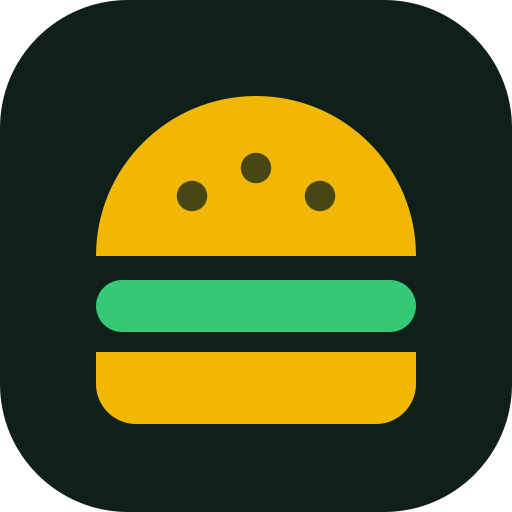
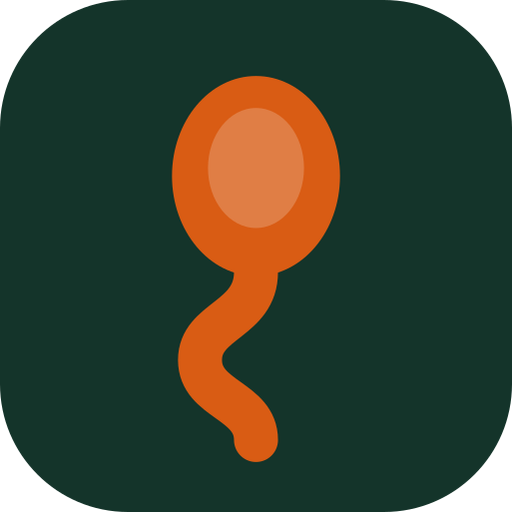
Marque Savora, icônes régénérées, et deux défauts d'affichage corrigés
## Une marque qui ne parle pas du menu

Le pictogramme était un burger doré. Il disait « ce logiciel sert des burgers » — or il servira
aussi des wraps, du riz gras et du bissap, et il se vendra à d'autres restaurants que le premier.
La marque est désormais une cuillère dont le manche trace le « S » : elle dit la table sans rien
dire du menu. Dessinée en aplats, elle reste lisible à seize pixels dans une barre latérale.

Toutes les icônes découlent maintenant d'un seul dessin, régénérées par `npm run icons` :
favicon, icônes PWA, icône masquable, et les cinq densités du lanceur Android. Sans ce dernier
passage, l'ancienne identité aurait survécu sur l'écran d'accueil des téléphones déjà équipés, et
personne n'aurait pensé à la chercher là.

## Vérification écran par écran

Vingt écrans parcourus au navigateur après la réécriture complète des feuilles de style —
onze côté logiciel, neuf côté application. Deux défauts trouvés, tous deux côté client :

  — **Débordement horizontal.** Les rangées défilantes portaient une marge négative destinée à
    « sortir » d'un conteneur parent. Mais ces rangées ne sont pas encadrées : elles sont posées
    directement dans la page. Elles dépassaient donc de seize pixels, et c'est toute la page qui
    défilait latéralement. Le défaut se voit à peine et se ressent tout de suite : l'écran glisse
    sous le doigt à chaque geste vertical.
  — **Vignettes trop lourdes.** Les visuels de repli posaient un sujet clair sur un fond très
[…]

diff --git a/apps/api/src/modules/uploads/illustrations.ts b/apps/api/src/modules/uploads/illustrations.ts
@@ -72,9 +72,19 @@ function svg(name: string, glyph: Glyph): string {
   // tons qui donnent faim.
   const hue = glyph === 'drink' ? 148 + Math.round(rand() * 64) : 6 + Math.round(rand() * 40);
 
-  const deep = `hsl(${hue} 58% 14%)`;
-  const mid = `hsl(${hue} 64% 30%)`;
-  const warm = `hsl(${(hue + 14) % 360} 82% 56%)`;
+  /*
+   * Des tons clairs, pas des carrés sombres.
+   *
+   * La première version posait un sujet crème sur un fond très sombre. Sur l'ancienne interface en
+   * vert nuit, cela passait ; sur le papier clair d'aujourd'hui, chaque vignette devient un bloc
+   * lourd qui écrase la carte qui la porte. On inverse donc : un lavis chaud et lumineux, et le
+   * sujet dessiné dans une teinte profonde. La vignette respire avec la page au lieu d'y faire un
+   * trou.
+   */
+  const pale = `hsl(${hue} 62% 88%)`;
+  const mid = `hsl(${(hue + 6) % 360} 70% 74%)`;
+  const warm = `hsl(${(hue + 14) % 360} 88% 82%)`;
+  const encre = `hsl(${hue} 58% 32%)`;
 
   // Ce qui distingue deux plats voisins : où tombe la lumière, comment la silhouette est posée.
   const lightX = (0.3 + rand() * 0.42).toFixed(3);
@@ -100,31 +110,31 @@ function svg(name: string, glyph: Glyph): string {
     const ax = (26 + rand() * 68).toFixed(1);
     const ay = (14 + rand() * 58).toFixed(1);
     const ar = (0.8 + rand() * 1.5).toFixed(2);
-    return `<circle cx="${ax}" cy="${ay}" r="${ar}" fill="#FFF3D6" fill-opacity="${0.1 + i * 0.05}"/>`;
+    return `<circle cx="${ax}" cy="${ay}" r="${ar}" fill="#FFFFFF" fill-opacity="${0.28 + i * 0.08}"/>`;
   }).join('');
 
   return `<svg xmlns="http://www.w3.org/2000/svg" width="${WIDTH}" height="${HEIGHT}" viewBox="0 0 120 90">
   <defs>
     <linearGradient id="fond" x1="0.1" y1="0" x2="0.9" y2="1">
-      <stop offset="0%" stop-color="${mid}"/>
-      <stop offset="100%" stop-color="${deep}"/>
+      <stop offset="0%" stop-color="${warm}"/>
+      <stop offset="100%" stop-color="${mid}"/>
     </linearGradient>
     <radialGradient id="lumiere" cx="${lightX}" cy="${lightY}" r="0.72">
-      <stop offset="0%" stop-color="${warm}" stop-opacity="0.62"/>
-      <stop offset="55%" stop-color="${warm}" stop-opacity="0.12"/>
-      <stop offset="100%" stop-color="${warm}" stop-opacity="0"/>
+      <stop offset="0%" stop-color="${pale}" stop-opacity="0.9"/>
+      <stop offset="60%" stop-color="${pale}" stop-opacity="0.25"/>
+      <stop offset="100%" stop-color="${pale}" stop-opacity="0"/>
     </radialGradient>
     <radialGradient id="ombre" cx="0.5" cy="0.5" r="0.5">
-      <stop offset="0%" stop-color="#000" stop-opacity="0.38"/>
+      <stop offset="0%" stop-color="#000" stop-opacity="0.18"/>
       <stop offset="100%" stop-color="#000" stop-opacity="0"/>
     </radialGradient>
     <linearGradient id="matiere" x1="0" y1="0" x2="0" y2="1">
-      <stop offset="0%" stop-color="#FFFBF0"/>
-      <stop offset="100%" stop-color="#F0D9A8"/>
+      <stop offset="0%" stop-color="${encre}"/>
+      <stop offset="100%" stop-color="${encre}"/>
     </linearGradient>
     <radialGradient id="vignette" cx="0.5" cy="0.5" r="0.78">
-      <stop offset="60%" stop-color="#000" stop-opacity="0"/>
-      <stop offset="100%" stop-color="#000" stop-opacity="0.34"/>
+      <stop offset="62%" stop-color="#7a4a1a" stop-opacity="0"/>
+      <stop offset="100%" stop-color="#7a4a1a" stop-opacity="0.16"/>
     </radialGradient>
   </defs>
 
@@ -136,7 +146,7 @@ function svg(name: string, glyph: Glyph): string {
   <ellipse cx="${cx}" cy="${cy + (box.h * scale) / 2 + 5}" rx="${(box.w * scale) / 1.8}" ry="4.5" fill="url(#ombre)"/>
 
   <g transform="translate(${cx} ${cy}) rotate(${tilt}) scale(${scale.toFixed(3)}) translate(${-box.w / 2} ${-box.h / 2})">
-    <g fill="url(#matiere)" stroke="#5A3410" stroke-opacity="0.28" stroke-width="0.9"
+    <g fill="url(#matiere)" stroke="#FFFFFF" stroke-opacity="0.34" stroke-width="0.9"
        stroke-linejoin="round" stroke-linecap="round">
       <path d="${PATHS[glyph]}"/>
     </g>

diff --git a/apps/client/src/components/Icons.tsx b/apps/client/src/components/Icons.tsx
@@ -194,10 +194,32 @@ export const IconShare = ({ size = 20, className, style }: IconProps) => (
 );
 
 /** Badge produit, repris du logo : sert de remplacement quand une photo manque. */
-export const BurgerMark = ({ size = 64, className, style }: IconProps) => (
+export const SavoraMark = ({ size = 64, className, style }: IconProps) => (
+  /*
+   * La marque Savora : une cuillère dont le manche trace le « S ».
+   *
+   * Un burger disait « ce logiciel sert des burgers » — or il en servira aussi des wraps, du riz
+   * gras et du bissap, et il se vendra à d'autres restaurants que celui-ci. La cuillère, elle,
+   * dit la table sans rien dire du menu.
+   *
+   * Dessinée en aplats : elle doit rester lisible à seize pixels dans une barre latérale, où un
+   * dégradé ne serait plus qu'une tache.
+   */
   <svg viewBox="0 0 64 64" width={size} height={size} className={className} style={style} aria-hidden="true">
-    <path d="M12 32a20 20 0 0 1 40 0Z" fill="currentColor" />
-    <rect x="12" y="35" width="40" height="6.5" rx="3.25" fill="currentColor" opacity="0.55" />
-    <path d="M12 44h40v4a5 5 0 0 1-5 5H17a5 5 0 0 1-5-5Z" fill="currentColor" />
+    <rect width="64" height="64" rx="16" fill="#14342A" />
+    {/* Le cuilleron */}
+    <ellipse cx="32" cy="22" rx="10.5" ry="12.5" fill="#D95C14" />
+    <ellipse cx="32" cy="21" rx="6" ry="7.5" fill="#FBF8F3" fillOpacity="0.22" />
+    {/* Le manche, courbé en S */}
+    <path
+      d="M32 34c0 6-7 6-7 11s7 5 7 10"
+      stroke="#D95C14"
+      strokeWidth="5.5"
+      strokeLinecap="round"
+      fill="none"
+    />
   </svg>
 );
+
+/** Ancien nom, conservé le temps que les appels migrent. */
+export const BurgerMark = SavoraMark;

diff --git a/apps/restaurant/src/components/Icons.tsx b/apps/restaurant/src/components/Icons.tsx
@@ -188,11 +188,32 @@ export const IconShare = ({ size = 20, className, style }: IconProps) => (
   </svg>
 );
 
-export const BurgerMark = ({ size = 32, className, style }: IconProps) => (
+export const SavoraMark = ({ size = 32, className, style }: IconProps) => (
+  /*
+   * La marque Savora : une cuillère dont le manche trace le « S ».
+   *
+   * Un burger disait « ce logiciel sert des burgers » — or il en servira aussi des wraps, du riz
+   * gras et du bissap, et il se vendra à d'autres restaurants que celui-ci. La cuillère, elle,
+   * dit la table sans rien dire du menu.
+   *
+   * Dessinée en aplats : elle doit rester lisible à seize pixels dans une barre latérale, où un
+   * dégradé ne serait plus qu'une tache.
+   */
   <svg viewBox="0 0 64 64" width={size} height={size} className={className} style={style} aria-hidden="true">
-    <rect width="64" height="64" rx="16" fill="#0E2019" />
-    <path d="M12 32a20 20 0 0 1 40 0Z" fill="#F2B705" />
-    <rect x="12" y="35" width="40" height="6.5" rx="3.25" fill="#35C877" />
-    <path d="M12 44h40v4a5 5 0 0 1-5 5H17a5 5 0 0 1-5-5Z" fill="#F2B705" />
+    <rect width="64" height="64" rx="16" fill="#14342A" />
+    {/* Le cuilleron */}
+    <ellipse cx="32" cy="22" rx="10.5" ry="12.5" fill="#D95C14" />
+    <ellipse cx="32" cy="21" rx="6" ry="7.5" fill="#FBF8F3" fillOpacity="0.22" />
+    {/* Le manche, courbé en S */}
+    <path
+      d="M32 34c0 6-7 6-7 11s7 5 7 10"
+      stroke="#D95C14"
+      strokeWidth="5.5"
+      strokeLinecap="round"
+      fill="none"
+    />
   </svg>
 );
+
+/** Ancien nom, conservé le temps que les appels migrent. */
+export const BurgerMark = SavoraMark;

diff --git a/apps/client/src/styles/global.css b/apps/client/src/styles/global.css
@@ -175,9 +175,17 @@ a {
   gap: var(--space-3);
   overflow-x: auto;
   scroll-snap-type: x proximity;
+  /*
+   * Bord à bord, avec une marge intérieure.
+   *
+   * La tentation est de poser une marge négative pour « sortir » du conteneur parent. Mais ces
+   * rangées ne sont pas dans un conteneur : elles sont posées directement dans la page. La marge
+   * négative les faisait donc dépasser de seize pixels à droite, et c'est toute la page qui
+   * défilait latéralement — le défaut se voit à peine et se ressent tout de suite, l'écran
+   * « glisse » sous le doigt à chaque geste vertical.
+   */
   padding-inline: var(--space-4);
   padding-block: var(--space-2);
-  margin-inline: calc(var(--space-4) * -1);
   scrollbar-width: none;
 }
 
@@ -648,8 +656,8 @@ a {
   display: flex;
   gap: var(--space-2);
   overflow-x: auto;
+  /* Même raison que pour .scroller : pas de marge négative, ces rangées ne sont pas encadrées. */
   padding-inline: var(--space-4);
-  margin-inline: calc(var(--space-4) * -1);
   padding-block: var(--space-1);
   scrollbar-width: none;
 }
